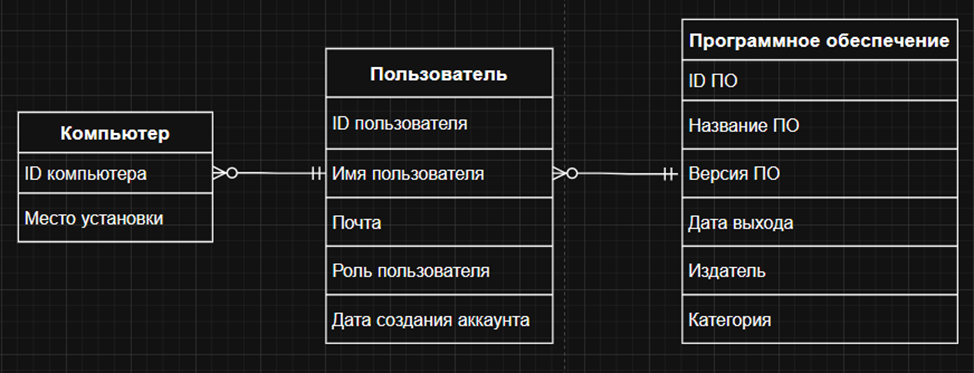
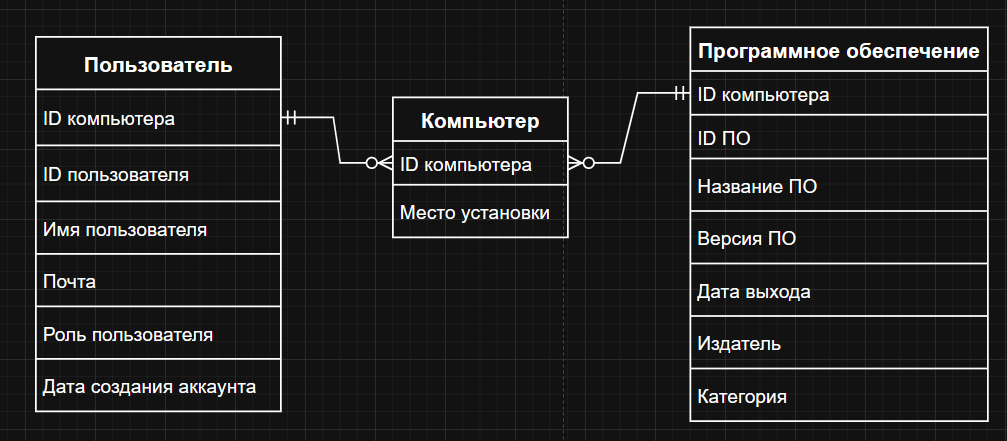
- Изменена ER-диаграмма - Созданы классы-модели - удалены лишние файлы

diff --git a/classmodels.py b/classmodels.py
@@ -1,0 +1,161 @@
+from sqlalchemy import create_engine, Column, Integer, String, ForeignKey
+from sqlalchemy.orm import sessionmaker, DeclarativeBase
+from sqlalchemy.sql.functions import user
+from datetime import datetime
+
+# Подключение к существующей базе
+engine = create_engine('sqlite:///labar.db', pool_pre_ping=True)
+
+class Base(DeclarativeBase):
+    pass
+
+Session = sessionmaker(bind=engine)
+session = Session()
+
+class Programs(Base): #Классы-модель
+    __tablename__ = 'Programs'
+    software_id = Column(Integer, primary_key=True)
+    name = Column(String(50))
+    version = Column(String(50))
+    release_date = Column(String(50))
+    developer = Column(String(50))
+    category = Column(String(50))
+
+
+class PCs(Base): #Класс-модель
+    __tablename__ = 'PCs'
+    pc_id = Column(Integer, primary_key=True)
+    program = Column(String(50))
+    name = Column(String(50))
+    inst_place = Column(String(50))
+
+class Users(Base): #Класс-модель
+    __tablename__ = 'Users'
+    user_id = Column(Integer, primary_key=True)
+    pc = Column(String(50))
+    name = Column(String(50))
+    email = Column(String(50))
+    role = Column(String(50))
+    created_at = Column(String(50))
+
+
+#CRUD
+class PCs_CRUD:
+    @staticmethod
+    def print_rec_pc(): #функция для получения всех записей в таблице компьютеров
+        return session.query(PCs).all()
+
+    @staticmethod
+    def print_rec_id_pc(pc_id): #найти запись по айди в таблице с компьютерами
+        return session.query(PCs).filter(PCs.pc_id == pc_id).first()
+
+    @staticmethod
+    def create_rec(name, program, inst_place): #добавить компьютер в бд
+        computer = PCs(name=name, program=program, inst_place=inst_place)
+        session.add(computer)
+        session.commit()
+        return computer
+
+    @staticmethod
+    def del_rec(computer_id): #удалить компьютер из бд
+        computer = PCs_CRUD.print_rec_id_pc(computer_id)
+        if computer:
+            session.delete(computer)
+            session.commit()
+
+
+
+class Users_CRUD:
+    @staticmethod
+    def print_rec_user():
+        return session.query(Users).all()
+
+    @staticmethod
+    def print_rec_id_user(user_id):
+        return session.query(Users).filter(Users.user_id == user_id).first()
+
+    @staticmethod
+    def create_rec(name, pc, email, role): #добавить компьютер в бд
+        user = Users(name=name, pc=pc , email=email, role=role, created_at=datetime.now())
+        session.add(user)
+        session.commit()
+        return user
+
+    @staticmethod
+    def del_rec_user(user_id):
+        user = PCs_CRUD.print_rec_id_pc(user_id)
+        if user:
+            session.delete(user)
+            session.commit()
+
+
+class Programs_CRUD:
+    @staticmethod
+    def print_rec_prog():
+        return session.query(Programs).all()
+
+    @staticmethod
+    def print_rec_id_prog(software_id):
+        return session.query(Programs).filter(Programs.software_id == software_id).first()
+
+    @staticmethod
+    def create_rec_prog(name, version, date_release, developer, category):
+        program = Programs(name=name, vesion=version, date_release=date_release, developer=developer, category=category)
+        session.add(program)
+        return program
+
+    @staticmethod
+    def del_rec_prog(software_id):
+        program = Programs.print_rec_id_prog(software_id)
+        if program:
+            session.delete(program)
+            session.commit()
+
+
+#Сервис, чтобы работать со связ-ми данными из неск-х таблиц
+class work_with_tables:
+    @staticmethod
+    def join_sql():
+        return session.query(
+            PCs.pc_id, PCs.name, Programs.name).join(
+            Programs, PCs.program == Programs.software_id)
+
+    @staticmethod
+    def find_prog_on_pc(name_program): #для нахождения компьютера с определенным по
+        return session.query(PCs).join(Programs).filter(Programs.software_id == name_program).all()
+
+with session as session:
+    print('all pcs')
+    computers = PCs_CRUD.print_rec_pc()
+    #for comp in computers:
+     #   print(f"Id: {comp.pc_id}, {comp.program}, {comp.name}")
+
+#краш-тест
+'''
+if __name__ == "__main__":
+    print("Все компьютеры ")
+    computers = ComputerCRUID.records() #да-да та самая функция, которая выводит вапще всё
+    for comp in computers:
+        print(f"ID: {comp.id_pc}, Email: {comp.Email}, PO ID: {comp.id_proga}")
+
+    new_comp = ComputerCRUID.createrecord("crashtest@example.com", 1) #внедряю тестовую запись
+    print(f"\nДобавлен компьютер с ID: {new_comp.id_pc}")
+    ComputerCRUID.change_email(new_comp.id_pc, "crashtestnew@example.com")#а затем обновляю её
+
+
+    print("\nВся таблица")
+    resultat = ServiceTableData.join_sql()
+    print("ID | Почта | ПО | Цена")
+    for id_pc, email, proga, price in resultat:
+        print(f"{id_pc} | {email} | {proga} | {price}")
+
+    print("\nВывод пк с visual studio (для теста)")
+    vs_pc = ServiceTableData.find_pc_po("Visual Studio")
+    for j in vs_pc:
+        print(f"ID: {j.id_pc}, Email: {j.Email}")
+
+    ComputerCRUID.deleterecord(new_comp.id_pc) #тестовый компьютер пака(удаляю)
+    print(f"\nУдален компьютер с ID: {new_comp.id_pc}")
+
+    session.close()
+'''
